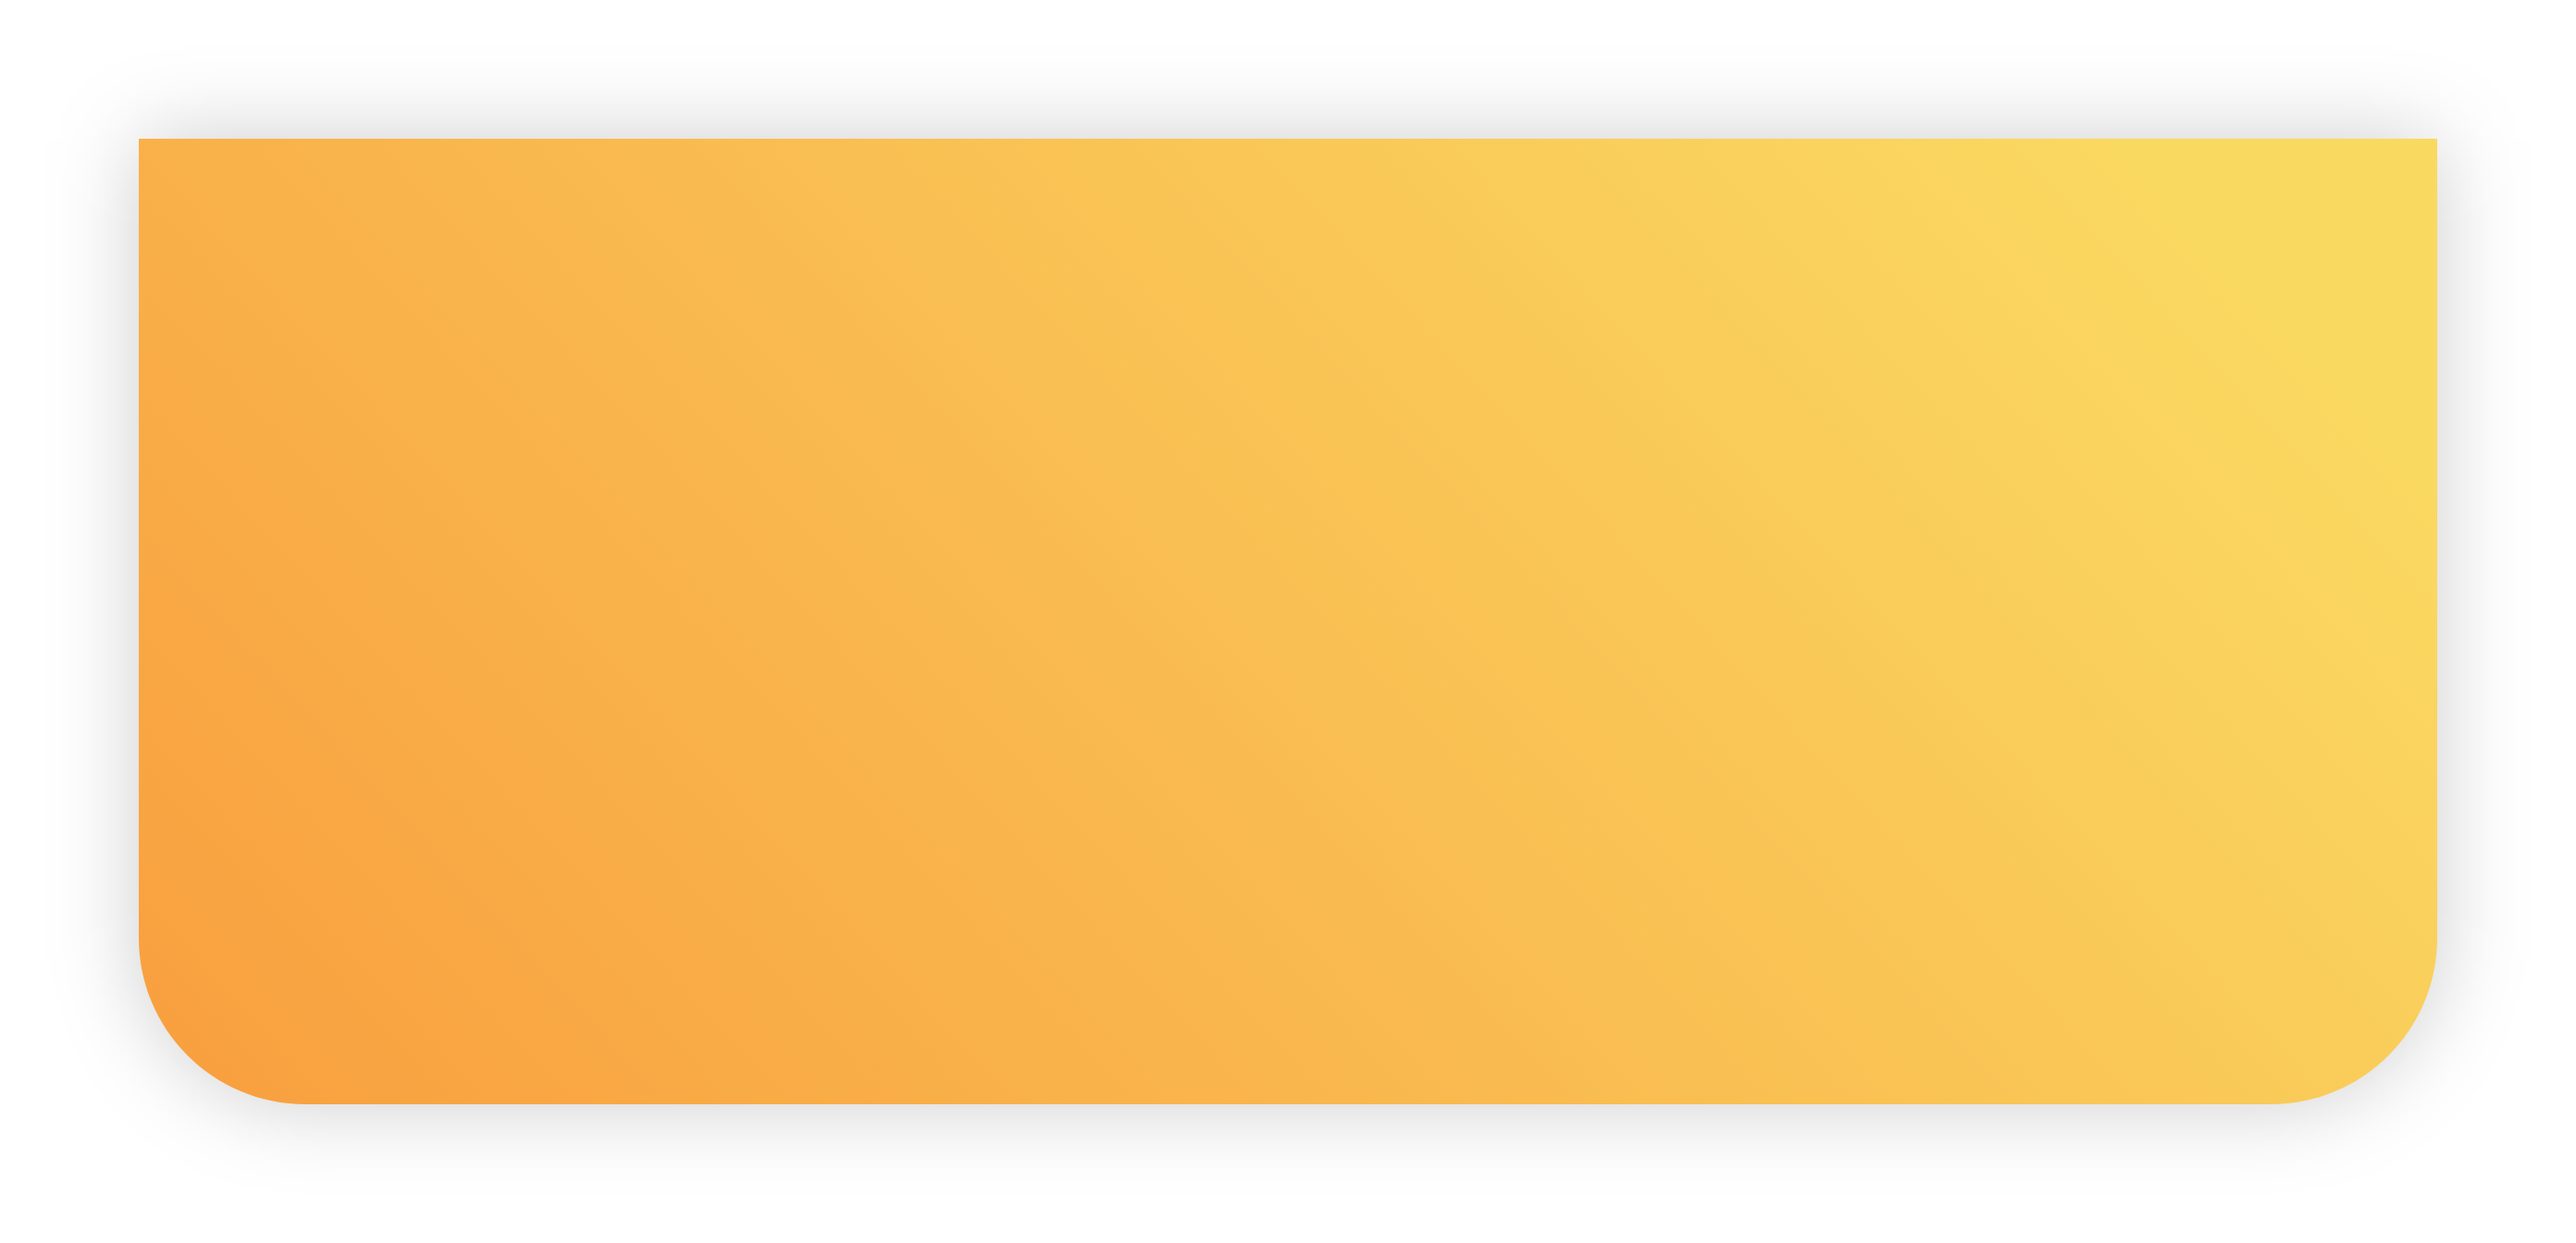
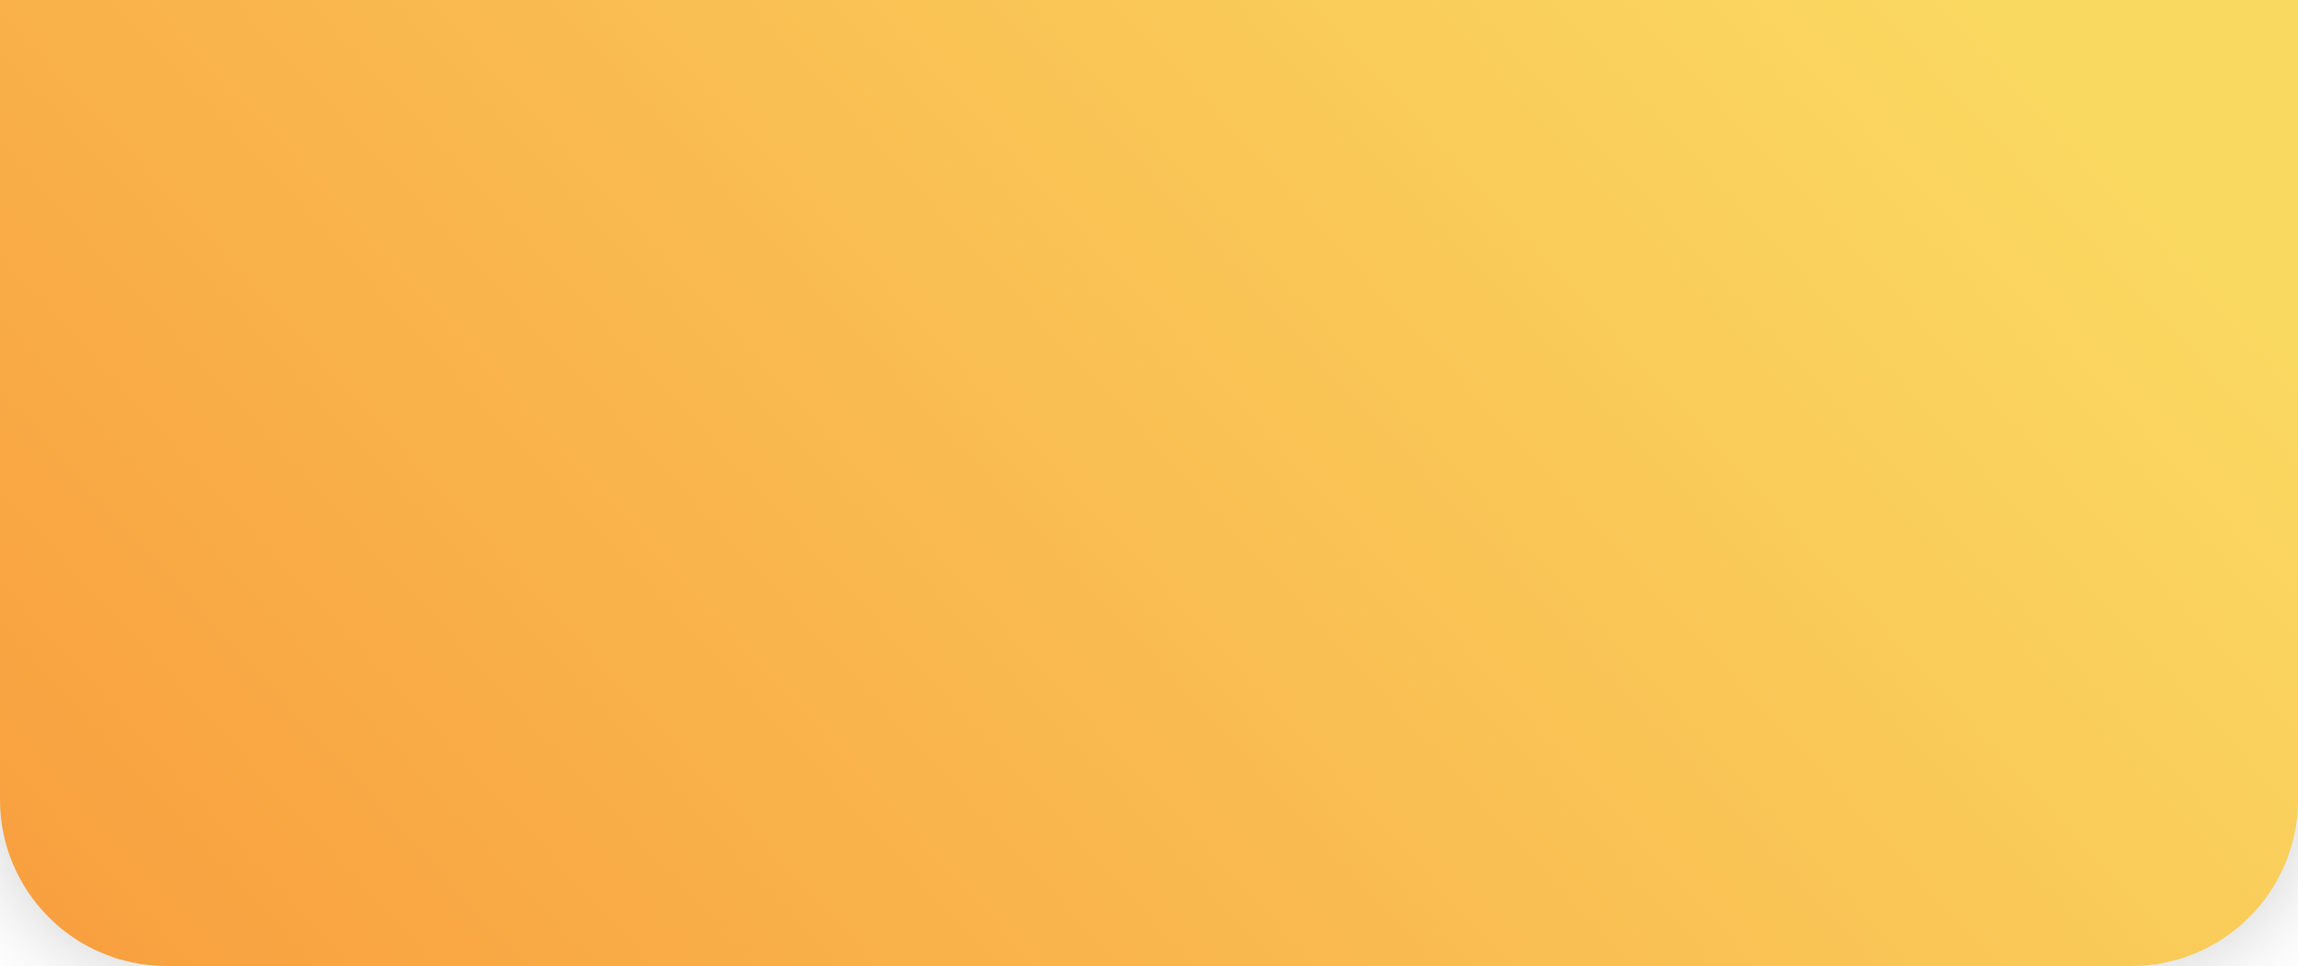
shadow fix

diff --git a/WebContent/style.css b/WebContent/style.css
@@ -62,6 +62,68 @@ body {
     text-align: center;
 }
 
+
+
+.switch {
+    position: relative!important;
+    display: inline-block!important;
+    width: 60px;
+    height: 34px;
+}
+
+.switch input {
+    opacity: 0;
+    width: 0;
+    height: 0;
+}
+
+.slider {
+    position: absolute!important;
+    cursor: pointer;
+    top: 0;
+    left: 0;
+    right: 0;
+    bottom: 0;
+    background-color: #F0F0F0;
+    -webkit-transition: .4s;
+    transition: .4s;
+    border-radius: 34px;
+    border: 2px solid #F0F0F0;
+}
+
+.slider:before {
+    position: absolute!important;
+    content: "";
+    height: 30px;
+    width: 30px;
+    left: 0;
+    bottom: 0;
+    background-color: #fff;
+    -webkit-transition: .3s;
+    transition: .3s;
+    border-radius: 50%;
+    box-shadow: 2px 3px 10px rgba(0, 0, 0, 0.16);
+}
+
+input:checked + .slider {
+    background-color: #fff;
+    border: 2px solid #FBB031;
+}
+
+
+input:checked + .slider:before {
+    -webkit-transform: translateX(27px);
+    -ms-transform: translateX(27px);
+    transform: translateX(27px);
+    background-color: #FCB43E;
+    height: 28px;
+    width: 28px;
+    bottom: 1px;
+    box-shadow: 2px 3px 10px rgba(0, 0, 0, 0);
+}
+
+
+
 .main_box {
     height: 700px;
     width: 330px;
@@ -93,16 +155,16 @@ body {
 }
 
 .topbar{
-
+    height: 140px;
     position: relative;
+    border-radius: 0 0 28px 28px;
+    background-image: linear-gradient(45deg,#f8a03f,#fad961);
+    box-shadow: 0 0 50px rgba(0, 0, 0, 0.2);
 }
 
-
-
 .botbar{
-
     position: relative;
-
+    height:120px;
 }
 
 .createEvent{
@@ -258,6 +320,7 @@ body {
     padding-left: 30px;
     width: 80%;
 }
+
 .form-group .form-control-icon-search {
     position: absolute;
     height: 18px;

diff --git a/WebContent/main.html b/WebContent/main.html
@@ -11,13 +11,10 @@
 <div class="outer_box">
     <div class="main_box" >
         <div class="topbar">
-
-            <img src="img/topbar.png" width = 100% alt="">
             <div class="locationBtn" > <a href="http://google.com"><img  src="img/location.png" height=20 alt=""></a></div>
             <div class="dropdownBtn" > <a href="http://google.com"><img  src="img/dropdown.png" height=8 alt=""></a></div>
             <div class="messageBtn" ><a  href="http://google.com"><img src="img/message.png" height = 20 alt=""></a></div>
             <div class="mapBtn" ><a  href="http://google.com"><img  src="img/map.png" height = 20 alt=""></a></div>
-
             <div class="searchBar" >
                 <div class="form-group mt-3" >
                     <img class ="form-control-icon-search" src="img/search.png" height = 24 alt="">
@@ -25,15 +22,13 @@
                     <input name="search" type="text" id="search" class="form-control-search" placeholder="Search upcoming events"  required="">
                 </div>
             </div>
-
         </div>
 
         <div class="content">
             here is the main content
         </div>
-
+        <img src="img/botbar.png" width = 100% alt="">
         <div class="botbar">
-            <img src="img/botbar.png" width = 100% alt="">
             <a class="btn orangeCircleBtn" HREF="create.html" >+</a>
             <div class="homeBtn" > <a href="http://google.com"><img  src="img/homeClicked.png" height=30 alt=""></a></div>
             <div class="tasksBtn" ><a  href="http://google.com"><img src="img/tasks.png" height = 20 alt=""></a></div>

diff --git a/WebContent/create3.html b/WebContent/create3.html
@@ -9,11 +9,15 @@
 </head>
 <body>
 <div class="outer_box">
+
     <form class="main_box" id="event" action="create3.html" method="post" >
+
         <div class="createEvent">
             <img src="img/createBackground.png" width = 100% alt="">
             <div class="white-back" > <a href="create2.html"><img  src="img/whiteback.png" height=18 alt=""></a></div>
             <div class="event-step" > <img  src="img/event3.png" height=12 alt=""></div>
+
+
 
             <div class="mainContent">
                 <div class="eventDetail">
@@ -25,11 +29,12 @@
                     <div class="semiSC_3 mb-2 mt-5">Event Capacity</div>
                 </div>
 
-                <div class="container">
-                    <div class="toggle-btn mt-5" onclick="this.classList.toggle('active')">
-                        <div class="inner-circle"></div>
-                    </div>
-                </div>
+                <label class="switch">
+                    <input type="checkbox">
+                    <span class="slider round"></span>
+                </label>
+
+
 
             </div>
             <div class="nextStep">
